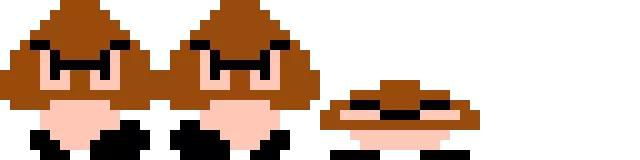
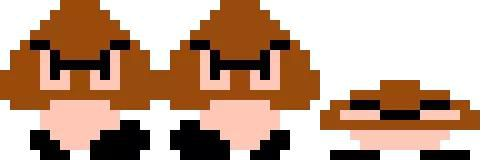
Add files via upload

diff --git a/游戏/enemy.py b/游戏/enemy.py
@@ -1,4 +1,5 @@
 import pygame
+import os
 from constants import CHARACTER_SCALE, GRAVITY
 
 
@@ -12,28 +13,78 @@ class Enemy(pygame.sprite.Sprite):
         self.direction = "left"
         self.on_ground = False
         self.velocity_y = 0
-        self.create_enemy_sprite()
+
+        # 动画相关变量
+        self.animation_frame = 0
+        self.animation_speed = 8
+        self.current_sprite = None
+        self.stomped = False  # 新增被踩状态
+
+        # 加载精灵图片
+        self.load_sprites()
 
         # 用于追踪连续碰撞，避免无限循环
         self.consecutive_collisions = 0
 
-    def create_enemy_sprite(self):
-        self.sprite = pygame.Surface((self.width * CHARACTER_SCALE, self.height * CHARACTER_SCALE), pygame.SRCALPHA)
-        pygame.draw.rect(self.sprite, (255, 0, 0),
-                         (0, 0, self.width * CHARACTER_SCALE, self.height * CHARACTER_SCALE))
+    def load_sprites(self):
+        """加载并切割蘑菇怪图片为三个动作"""
+        try:
+            # 尝试加载图片
+            image_path = os.path.join("assets", "Enemies", "Goombas.png")
+            self.sprite_sheet = pygame.image.load(image_path).convert_alpha()
 
-        eye_size = int(3 * CHARACTER_SCALE)
-        eye_y = int(5 * CHARACTER_SCALE)
+            # 获取精灵表实际尺寸
+            sheet_width, sheet_height = self.sprite_sheet.get_size()
 
-        if self.direction == "left":
-            pygame.draw.circle(self.sprite, (255, 255, 255),
-                               (eye_size + 2, eye_y), eye_size)
-        else:
-            pygame.draw.circle(self.sprite, (255, 255, 255),
-                               (self.width * CHARACTER_SCALE - eye_size - 2, eye_y), eye_size)
+            # 计算实际精灵尺寸（考虑缩放）
+            actual_width = self.width * CHARACTER_SCALE
+            actual_height = self.height * CHARACTER_SCALE
+
+            # 切割图片为三个动作帧（假设图片是水平排列的三个相同大小的帧）
+            frame_width = sheet_width // 3
+            frame_height = sheet_height
+
+            # 向右走（第一帧）
+            walk_right_frame = self.sprite_sheet.subsurface(pygame.Rect(0, 0, frame_width, frame_height))
+            self.walk_right = pygame.transform.scale(walk_right_frame, (actual_width, actual_height))
+
+            # 向左走（第二帧）
+            walk_left_frame = self.sprite_sheet.subsurface(pygame.Rect(frame_width, 0, frame_width, frame_height))
+            self.walk_left = pygame.transform.scale(walk_left_frame, (actual_width, actual_height))
+
+            # 被踩扁（第三帧）
+            stomped_frame = self.sprite_sheet.subsurface(pygame.Rect(frame_width * 2, 0, frame_width, frame_height))
+            self.stomped_sprite = pygame.transform.scale(stomped_frame, (actual_width, actual_height))
+
+            self.current_sprite = self.walk_left  # 默认向左走
+            print(f"敌人精灵加载成功: {image_path}")
+        except Exception as e:
+            # 加载失败时创建默认方块
+            print(f"警告: 加载敌人图片失败: {e}")
+            self.create_default_sprites()
+
+    def create_default_sprites(self):
+        """创建默认的纯色精灵，用于图片加载失败时"""
+        actual_width = self.width * CHARACTER_SCALE
+        actual_height = self.height * CHARACTER_SCALE
+
+        # 向右走（绿色）
+        self.walk_right = pygame.Surface((actual_width, actual_height), pygame.SRCALPHA)
+        self.walk_right.fill((0, 128, 0))
+
+        # 向左走（深绿色）
+        self.walk_left = pygame.Surface((actual_width, actual_height), pygame.SRCALPHA)
+        self.walk_left.fill((0, 64, 0))
+
+        # 被踩扁（暗红色）
+        self.stomped_sprite = pygame.Surface((actual_width, actual_height), pygame.SRCALPHA)
+        self.stomped_sprite.fill((128, 0, 0))
+
+        self.current_sprite = self.walk_left
 
     def draw(self, screen):
-        screen.blit(self.sprite, (self.rect.x, self.rect.y))
+        if self.current_sprite:
+            screen.blit(self.current_sprite, (self.rect.x, self.rect.y))
 
     def apply_gravity(self, blocks):
         self.velocity_y += GRAVITY
@@ -51,19 +102,27 @@ class Enemy(pygame.sprite.Sprite):
                     self.velocity_y = 0
 
     def move(self, blocks, screen_width):
+        if self.stomped:  # 被踩后不再移动
+            return
+
         # 应用重力
         self.apply_gravity(blocks)
 
         if not self.on_ground:
             return  # 不在地面上时不移动
 
+        # 更新动画帧
+        self.animation_frame = (self.animation_frame + 1) % self.animation_speed
+
         # 尝试水平移动
         old_x = self.rect.x
 
         if self.direction == "left":
             self.rect.x -= self.speed
+            self.current_sprite = self.walk_left
         else:
             self.rect.x += self.speed
+            self.current_sprite = self.walk_right
 
         # 检查与方块的碰撞
         collision = False
@@ -105,16 +164,18 @@ class Enemy(pygame.sprite.Sprite):
             self.rect.right = screen_width
             self.direction = "left"
 
-        # 更新精灵方向
-        self.create_enemy_sprite()
-
     def check_collision_with_player(self, player):
         """检查与玩家的碰撞"""
+        if self.stomped:  # 已经被踩过则忽略
+            return False
+
         # 如果玩家从上方踩下，敌人立即消失
         if (player.rect.bottom < self.rect.centery and
                 player.rect.bottom + player.velocity_y >= self.rect.top and
                 player.rect.right > self.rect.left and
                 player.rect.left < self.rect.right):
             player.velocity_y = -5  # 给玩家一个小反弹
+            self.stomped = True
+            self.current_sprite = self.stomped_sprite  # 显示被踩扁的动画
             return True
         return False

diff --git a/游戏/player.py b/游戏/player.py
@@ -1,5 +1,5 @@
-# player.py
 import pygame
+import os
 from utils import load_sprite_sheets
 from constants import PLAYER_SPEED, GRAVITY, JUMP_POWER, SCREEN_WIDTH, SCREEN_HEIGHT, CHARACTER_SCALE
 
@@ -7,7 +7,15 @@ from constants import PLAYER_SPEED, GRAVITY, JUMP_POWER, SCREEN_WIDTH, SCREEN_HE
 class Player(pygame.sprite.Sprite):
     def __init__(self, x, y, width, height):
         super().__init__()
+        # 加载所有精灵表
         self.SPRITES = load_sprite_sheets("MainCharacters", "Mario", 16, 16, True)
+
+        # 新增：死亡图片（单独加载）
+        self.death_image = self.load_death_image()
+        self.is_dead = False
+        self.death_time = 0
+        self.DEATH_DURATION = 2000  # 死亡画面显示时间（毫秒）
+
         scaled_width = int(width * CHARACTER_SCALE)
         scaled_height = int(height * CHARACTER_SCALE)
         self.rect = pygame.Rect(x, y, scaled_width, scaled_height)
@@ -19,7 +27,7 @@ class Player(pygame.sprite.Sprite):
         self.direction = "right"
         self.on_ground = False
 
-        # 新增：血量系统
+        # 血量系统
         self.health = 3
         self.invincible = False
         self.invincible_time = 0
@@ -27,27 +35,50 @@ class Player(pygame.sprite.Sprite):
 
         self.update_sprite()
 
+    def load_death_image(self):
+        """加载单独的死亡图片"""
+        try:
+            death_path = os.path.join("assets", "MainCharacters", "Mario", "death.png")
+            death_image = pygame.image.load(death_path).convert_alpha()
+            # 缩放图片到角色大小
+            scaled_width = int(16 * CHARACTER_SCALE)
+            scaled_height = int(16 * CHARACTER_SCALE)
+            return pygame.transform.scale(death_image, (scaled_width, scaled_height))
+        except Exception as e:
+            print(f"警告: 加载死亡图片失败: {e}")
+            return None
+
     def update_sprite(self):
-        """更新角色精灵动画"""
+        """更新角色精灵动画（正常状态）"""
+        if self.is_dead:
+            return  # 死亡状态由专门方法处理
+
         if not self.on_ground:
             sprite_sheet = "jump"
         else:
             sprite_sheet = "idle" if self.velocity_x == 0 else "run"
 
         sprite_key = f"{sprite_sheet}_{self.direction}"
-
         sprite_index = (self.animation_count // 5) % len(self.SPRITES[sprite_key])
         self.sprite = self.SPRITES[sprite_key][sprite_index]
         self.animation_count += 1
 
     def draw(self, screen):
-        """绘制角色到屏幕"""
-        # 如果处于无敌状态，闪烁显示
+        """绘制角色到屏幕（处理死亡状态）"""
+        if self.is_dead:
+            if self.death_image:
+                screen.blit(self.death_image, (self.rect.x, self.rect.y))
+            return
+
+        # 正常状态下的绘制逻辑
         if not self.invincible or (pygame.time.get_ticks() // 100) % 2 == 0:
             screen.blit(self.sprite, (self.rect.x, self.rect.y))
 
     def move(self, blocks):
-        """处理角色移动和碰撞检测"""
+        """处理角色移动和碰撞检测（死亡状态下不移动）"""
+        if self.is_dead:
+            return
+
         self.velocity_x = 0
         keys = pygame.key.get_pressed()
 
@@ -136,5 +167,16 @@ class Player(pygame.sprite.Sprite):
             self.invincible = True
             self.invincible_time = pygame.time.get_ticks()
             self.velocity_y = -5  # 被击中后向上反弹
-            return True
+
+            # 检查是否死亡
+            if self.health <= 0:
+                self.die()  # 调用死亡方法
+                return True
         return False
+
+    def die(self):
+        """玩家死亡处理"""
+        self.is_dead = True
+        self.death_time = pygame.time.get_ticks()  # 记录死亡时间
+        self.invincible = True  # 死亡后无敌，防止重复触发
+

diff --git a/游戏/main.py b/游戏/main.py
@@ -1,4 +1,3 @@
-# main.py
 import pygame
 import os
 import random
@@ -149,7 +148,8 @@ def main():
                         player.rect.top < enemy.rect.bottom):
                     if player.hit():
                         if player.health <= 0:
-                            game_over = True
+                            player.die()  # 调用玩家的死亡方法
+                            game_over = True  # 设置游戏结束状态
 
             # 敌人生成（保持原代码不变）
             if current_time - enemy_spawn_timer > ENEMY_SPAWN_DELAY:
@@ -230,4 +230,3 @@ def main():
 
 if __name__ == "__main__":
     main()
-
